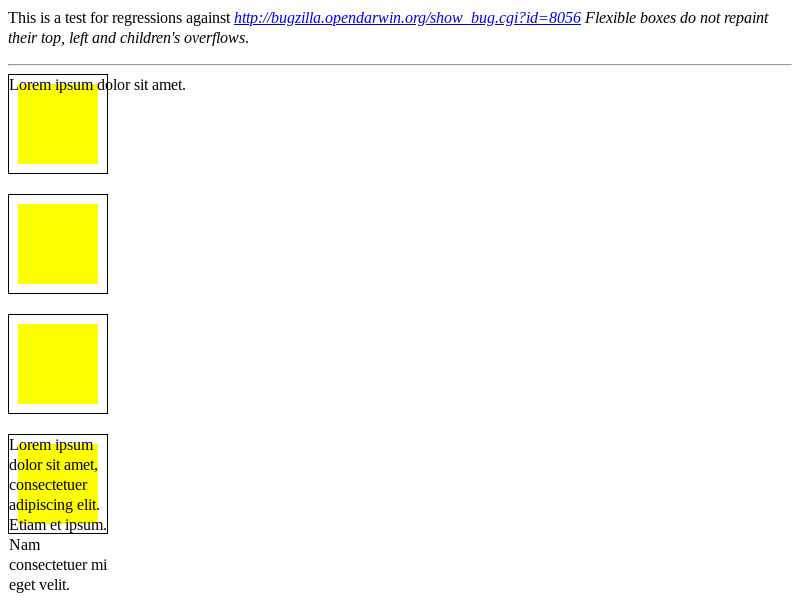
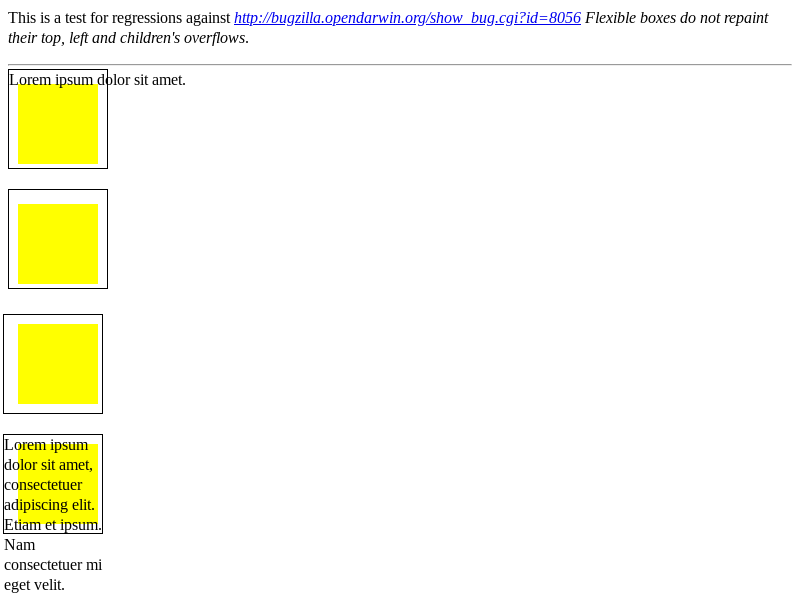
[css-flex] Remove default safe alignment for -webkit-box
-webkit-box defaulted to safe overflow for center alignment. That's
weird and differs from regular flexbox. So remove the safe overflow.

This makes Blink match Firefox.

Commit-Queue: David Grogan <dgrogan@chromium.org>
Cr-Commit-Position: refs/heads/main@{#1137476}
NOKEYCHECK=True
GitOrigin-RevId: 998a6a680eb51384db2f2f3c7b00679752f073f5

diff --git a/blink/web_tests/fast/deprecated-flexbox/002-expected.html b/blink/web_tests/fast/deprecated-flexbox/002-expected.html
@@ -1,0 +1,35 @@
+<!DOCTYPE html>
+<style>
+  div.outer {
+    position: relative;
+  }
+
+  div.crossTop {
+    height: 100px;
+    width: 300px;
+    background-color: green;
+    position: absolute;
+    top: 200px;
+    left: -50px;
+  }
+
+  div.crossBar {
+    height: 300px;
+    width: 100px;
+    background-color: green;
+    position: absolute;
+    top: 100px;
+    left: 100px;
+  }
+
+</style>
+You should see a green cross below (300 pixels wide and 300 pixels tall). This
+is a test to ensure that
+boxes don't obey the overconstraint correction (margin-right/left should not be
+corrected when a box is
+overconstrained).
+
+<div class="outer">
+  <div class="crossTop"></div>
+  <div class="crossBar"></div>
+</div>

diff --git a/blink/web_tests/fast/deprecated-flexbox/003-expected.html b/blink/web_tests/fast/deprecated-flexbox/003-expected.html
@@ -1,0 +1,34 @@
+<!DOCTYPE html>
+<style>
+  div.outer {
+    position: relative;
+  }
+
+  div.crossTop {
+    height: 100px;
+    width: 300px;
+    background-color: green;
+    position: absolute;
+    top: 200px;
+  }
+
+  div.crossBar {
+    height: 300px;
+    width: 100px;
+    background-color: green;
+    position: absolute;
+    top: 50px;
+    left: 100px;
+  }
+
+</style>
+You should see a green cross below (300 pixels wide and 300 pixels tall). This
+is a test to ensure that
+boxes don't obey the overconstraint correction (margin-top/bottom should not
+be corrected when a box is
+overconstrained).
+
+<div class="outer">
+  <div class="crossTop"></div>
+  <div class="crossBar"></div>
+</div>

diff --git a/blink/web_tests/fast/deprecated-flexbox/002.html b/blink/web_tests/fast/deprecated-flexbox/002.html
@@ -1,5 +1,7 @@
+<!DOCTYPE html>
 <html>
 <head>
+<link rel="match" href="002-expected.html">
 <style>
 div.crossTop {
   height: 300px;

diff --git a/blink/web_tests/fast/deprecated-flexbox/003.html b/blink/web_tests/fast/deprecated-flexbox/003.html
@@ -1,5 +1,7 @@
+<!DOCTYPE html>
 <html>
 <head>
+<link rel="match" href="003-expected.html">
 <style>
 div.crossTop {
   height: 100px;

diff --git a/blink/renderer/core/layout/flexible_box_algorithm.cc b/blink/renderer/core/layout/flexible_box_algorithm.cc
@@ -335,7 +335,11 @@ LayoutUnit FlexItem::AlignmentOffset(LayoutUnit available_free_space,
       return available_free_space;
     case ItemPosition::kCenter: {
       const LayoutUnit result = (available_free_space / 2);
-      return is_deprecated_webkit_box ? result.ClampNegativeToZero() : result;
+      return (!RuntimeEnabledFeatures::
+                  LayoutDisableWebkitBoxSafeAlignmentEnabled() &&
+              is_deprecated_webkit_box)
+                 ? result.ClampNegativeToZero()
+                 : result;
     }
     case ItemPosition::kBaseline:
     case ItemPosition::kLastBaseline:
